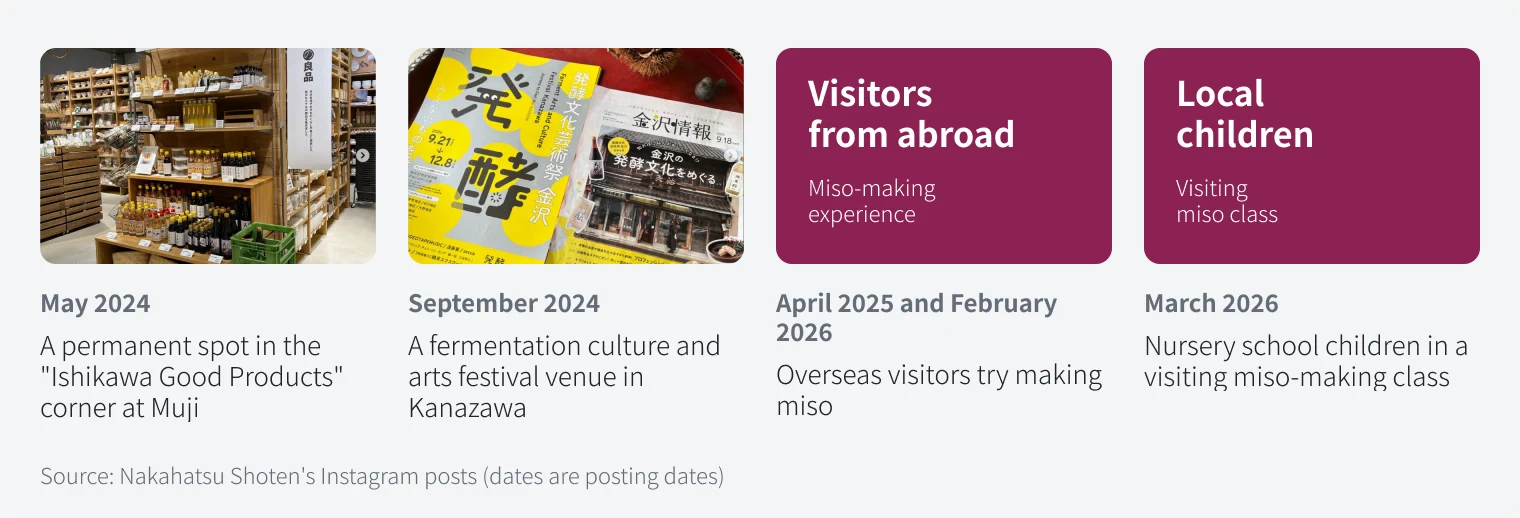
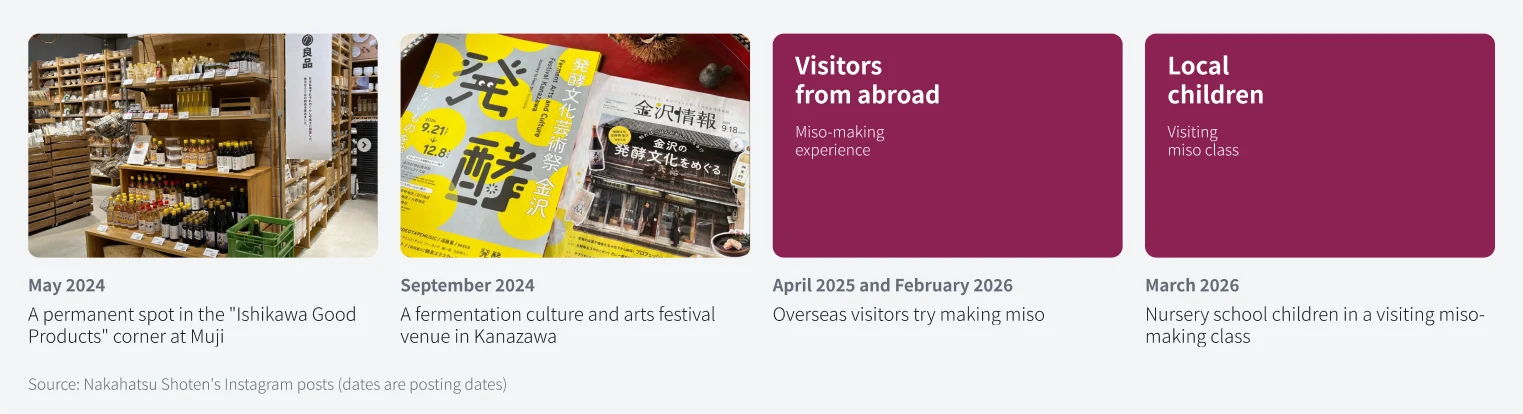
feat(nakahatsu-sy): overview, Instagram and system figures at full width

diff --git a/app/[locale]/work/nakahatsu-sy/NakahatsuSy.tsx b/app/[locale]/work/nakahatsu-sy/NakahatsuSy.tsx
@@ -81,7 +81,7 @@ function SystemFigure({ label, f }: { label: string; f: SystemFig }) {
     </div>
   );
   return (
-    <figure aria-label={label} className="flex w-full flex-col gap-3 bg-white p-4 md:w-[760px] md:gap-5 md:px-8 md:py-7">
+    <figure aria-label={label} className="flex w-full flex-col gap-3 bg-white p-4 md:w-full md:gap-5 md:px-8 md:py-7">
       {row(
         f.before,
         <>
@@ -227,7 +227,7 @@ const NakahatsuSy: React.FC<{ launched: boolean }> = () => {
 
         {/* 主要画面の一覧（PC とスマートフォン）。Figma の Overview 直下の図と同じ。キャプションは置かず、alt に説明を入れる */}
         <div className="flex justify-center">
-          <div className="w-full md:w-[760px]">
+          <div className="w-full">
             <Image src={`/work/nakahatsu/overview-pcsp-${language === 'jp' ? 'jp' : 'en'}.webp`} alt={t('overviewFigAlt')} width={2400} height={1446} className="h-auto w-full" />
           </div>
         </div>
@@ -241,8 +241,8 @@ const NakahatsuSy: React.FC<{ launched: boolean }> = () => {
           </Row>
           {/* Process の導入のあとに、Instagram の投稿から見た先方の活動（Figma の Process 直下の図と同じ。PC は横4枚、スマートフォンは2列） */}
           <div className="flex justify-center">
-            <div className="w-full md:w-[760px]">
-              <Image src={`/work/nakahatsu/ig-posts-${language === 'jp' ? 'jp' : 'en'}-pc.webp`} alt={t('igAlt')} width={1520} height={language === 'jp' ? 487 : 518} className="hidden h-auto w-full md:block" />
+            <div className="w-full">
+              <Image src={`/work/nakahatsu/ig-posts-${language === 'jp' ? 'jp' : 'en'}-pc.webp`} alt={t('igAlt')} width={1523} height={414} className="hidden h-auto w-full md:block" />
               <Image src={`/work/nakahatsu/ig-posts-${language === 'jp' ? 'jp' : 'en'}-sp.webp`} alt={t('igAlt')} width={654} height={language === 'jp' ? 893 : 981} className="block h-auto w-full md:hidden" />
             </div>
           </div>
